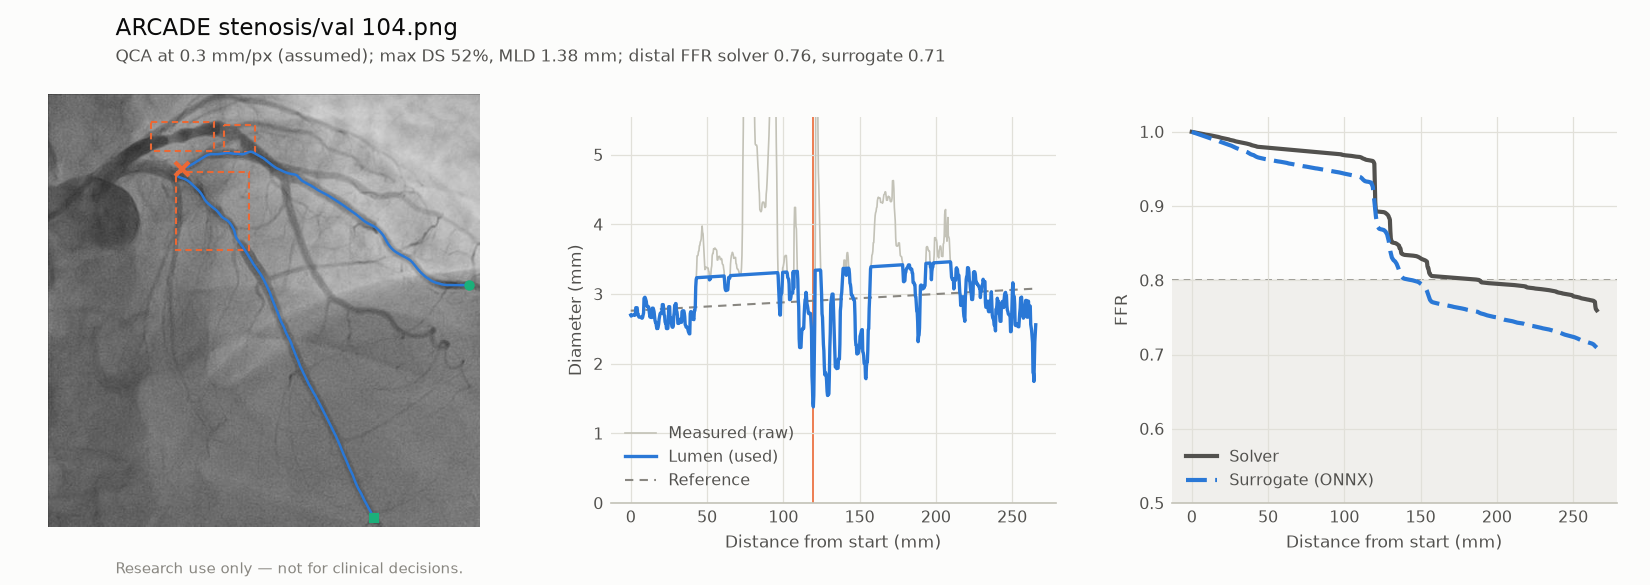
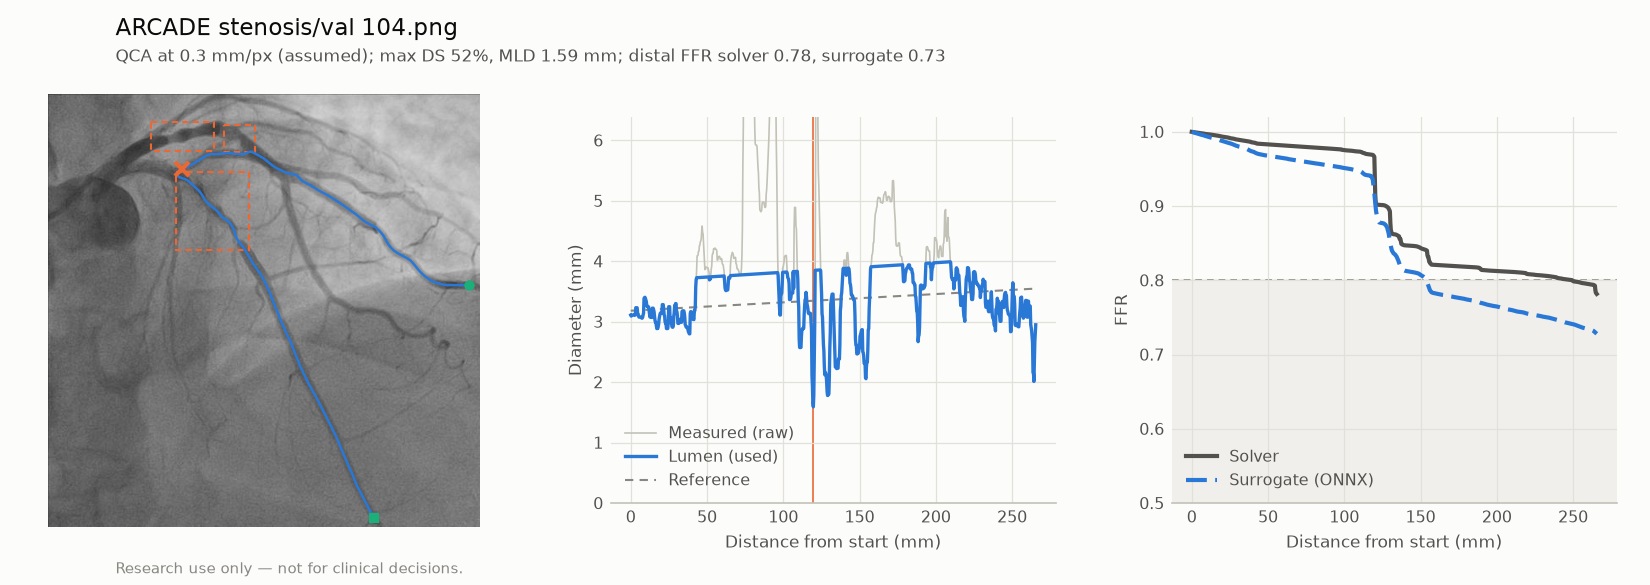
P5b: QCA gallery regenerated (scaled lumen default)

Changed region(s): [[0.8345, 0.3385, 0.9891, 0.5846], [0.7109, 0.2154, 0.8345, 0.3385], [0.4945, 0.7385, 0.6182, 0.7692]]

diff --git a/reports/qca_gallery.md b/reports/qca_gallery.md
@@ -9,29 +9,29 @@ The first 20 `stenosis/val` images (by COCO id). For each one the longest path o
 - Analysed: 20 of 20 (failed: 0).
 - Auto-selected path crosses an annotated stenosis box: 20; of those, point of maximum %DS inside a box: 10, MLD (narrowest absolute diameter, often in a thin distal branch) inside a box: 2.
 - Outside the surrogate's training range (mostly vessel length): 19 of 20.
-- Median |distal FFR solver − surrogate|: 0.030
+- Median |distal FFR solver − surrogate|: 0.035
 
 | Image | Path (mm) | Max DS (%) | MLD (mm) | FFR solver | FFR surrogate | Boxes | Path crosses box | Max DS in box | MLD in box |
 |---|---|---|---|---|---|---|---|---|---|
-| [val_1](figures/qca_examples/val_1.png) | 161 | 77 | 0.65 | 0.17 | 0.15 | 1 | yes | no | no |
+| [val_1](figures/qca_examples/val_1.png) | 161 | 77 | 0.73 | 0.19 | 0.17 | 1 | yes | no | no |
 | [val_10](figures/qca_examples/val_10.png) | 110 | 32 | 0.79 | 0.06 | -0.18 | 1 | yes | yes | no |
-| [val_100](figures/qca_examples/val_100.png) | 199 | 59 | 1.49 | 0.59 | 0.56 | 2 | yes | yes | no |
-| [val_101](figures/qca_examples/val_101.png) | 125 | 59 | 0.93 | 0.38 | 0.37 | 3 | yes | yes | no |
-| [val_102](figures/qca_examples/val_102.png) | 243 | 56 | 0.94 | 0.57 | 0.57 | 2 | yes | no | no |
-| [val_103](figures/qca_examples/val_103.png) | 162 | 58 | 0.78 | 0.26 | 0.27 | 3 | yes | yes | no |
-| [val_104](figures/qca_examples/val_104.png) | 265 | 52 | 1.38 | 0.76 | 0.71 | 3 | yes | no | no |
-| [val_105](figures/qca_examples/val_105.png) | 177 | 58 | 1.57 | 0.69 | 0.66 | 1 | yes | yes | no |
+| [val_100](figures/qca_examples/val_100.png) | 199 | 59 | 1.75 | 0.62 | 0.61 | 2 | yes | yes | no |
+| [val_101](figures/qca_examples/val_101.png) | 125 | 59 | 1.21 | 0.42 | 0.42 | 3 | yes | yes | no |
+| [val_102](figures/qca_examples/val_102.png) | 243 | 56 | 1.09 | 0.61 | 0.58 | 2 | yes | no | no |
+| [val_103](figures/qca_examples/val_103.png) | 162 | 58 | 0.88 | 0.29 | 0.29 | 3 | yes | yes | no |
+| [val_104](figures/qca_examples/val_104.png) | 265 | 52 | 1.59 | 0.78 | 0.73 | 3 | yes | no | no |
+| [val_105](figures/qca_examples/val_105.png) | 177 | 58 | 1.87 | 0.72 | 0.72 | 1 | yes | yes | no |
 | [val_106](figures/qca_examples/val_106.png) | 148 | 78 | 0.92 | 0.24 | 0.32 | 1 | yes | no | no |
 | [val_107](figures/qca_examples/val_107.png) | 138 | 85 | 0.33 | 0.19 | 0.48 | 2 | yes | no | no |
-| [val_108](figures/qca_examples/val_108.png) | 198 | 67 | 0.89 | 0.26 | 0.32 | 1 | yes | no | no |
-| [val_109](figures/qca_examples/val_109.png) | 179 | 50 | 1.65 | 0.66 | 0.59 | 2 | yes | yes | no |
+| [val_108](figures/qca_examples/val_108.png) | 198 | 67 | 0.99 | 0.27 | 0.34 | 1 | yes | no | no |
+| [val_109](figures/qca_examples/val_109.png) | 179 | 50 | 1.84 | 0.69 | 0.63 | 2 | yes | yes | no |
 | [val_11](figures/qca_examples/val_11.png) | 152 | 39 | 1.13 | 0.51 | 0.50 | 2 | yes | no | no |
-| [val_110](figures/qca_examples/val_110.png) | 68 | 56 | 1.05 | 0.71 | 0.72 | 2 | yes | yes | yes |
-| [val_111](figures/qca_examples/val_111.png) | 242 | 70 | 0.91 | 0.18 | 0.17 | 4 | yes | yes | no |
-| [val_112](figures/qca_examples/val_112.png) | 143 | 58 | 1.17 | 0.49 | 0.53 | 4 | yes | yes | yes |
-| [val_113](figures/qca_examples/val_113.png) | 159 | 67 | 1.05 | 0.36 | 0.33 | 1 | yes | no | no |
-| [val_114](figures/qca_examples/val_114.png) | 151 | 42 | 0.70 | 0.06 | -0.24 | 8 | yes | yes | no |
-| [val_115](figures/qca_examples/val_115.png) | 174 | 67 | 1.02 | 0.32 | 0.38 | 2 | yes | no | no |
-| [val_116](figures/qca_examples/val_116.png) | 229 | 50 | 0.86 | 0.57 | 0.64 | 3 | yes | no | no |
+| [val_110](figures/qca_examples/val_110.png) | 68 | 56 | 1.23 | 0.73 | 0.74 | 2 | yes | yes | yes |
+| [val_111](figures/qca_examples/val_111.png) | 242 | 70 | 1.00 | 0.20 | 0.19 | 4 | yes | yes | no |
+| [val_112](figures/qca_examples/val_112.png) | 143 | 58 | 1.52 | 0.52 | 0.58 | 4 | yes | yes | yes |
+| [val_113](figures/qca_examples/val_113.png) | 159 | 67 | 1.23 | 0.40 | 0.38 | 1 | yes | no | no |
+| [val_114](figures/qca_examples/val_114.png) | 151 | 42 | 0.88 | 0.06 | -0.22 | 8 | yes | yes | no |
+| [val_115](figures/qca_examples/val_115.png) | 174 | 67 | 1.14 | 0.35 | 0.41 | 2 | yes | no | no |
+| [val_116](figures/qca_examples/val_116.png) | 229 | 50 | 0.95 | 0.61 | 0.65 | 3 | yes | no | no |
 
-Models: segmentation `models/seg/seg_unet_r34-20261028-141743`, surrogate `models/surrogate/unet1d_ens5-20261030-113237`. Commit `8856a9ef6d021fad94285ae8e6c9350943678bcf` (dirty: False), 2026-10-31T20:36:09+00:00.
+Models: segmentation `models/seg/seg_unet_r34-20261028-141743`, surrogate `models/surrogate/unet1d_ens5-20261030-113237`. Commit `4c920e5b437be819d9e30ae800e9ae8538d6e574` (dirty: False), 2026-11-01T16:52:37+00:00.
